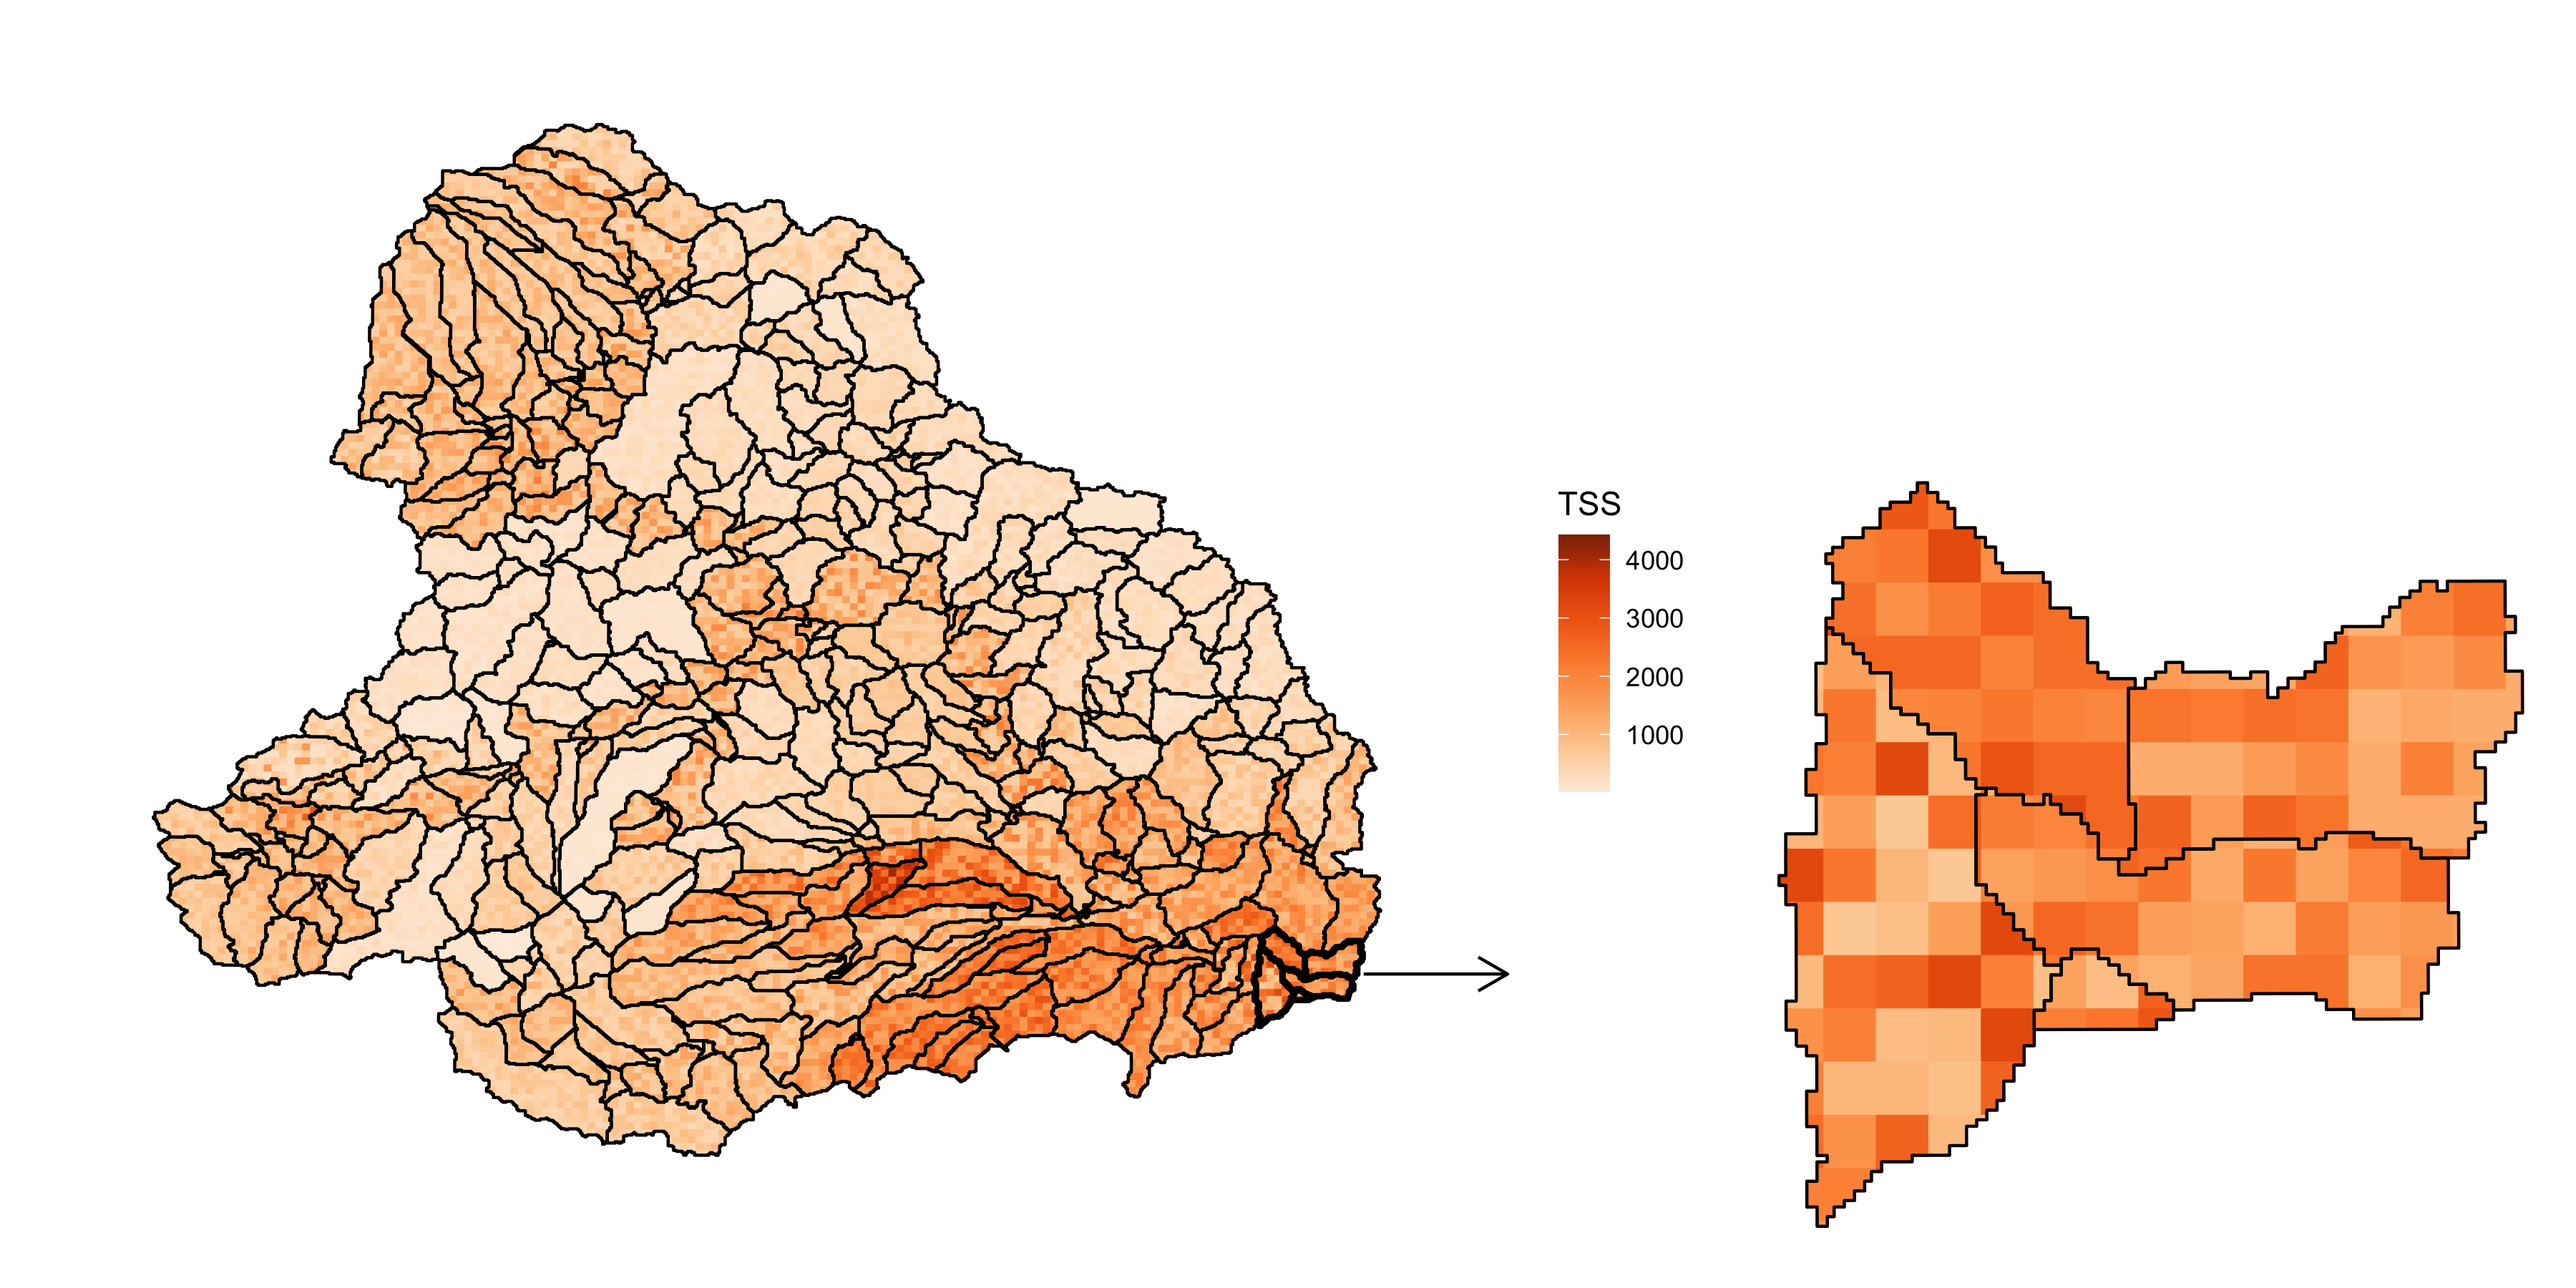
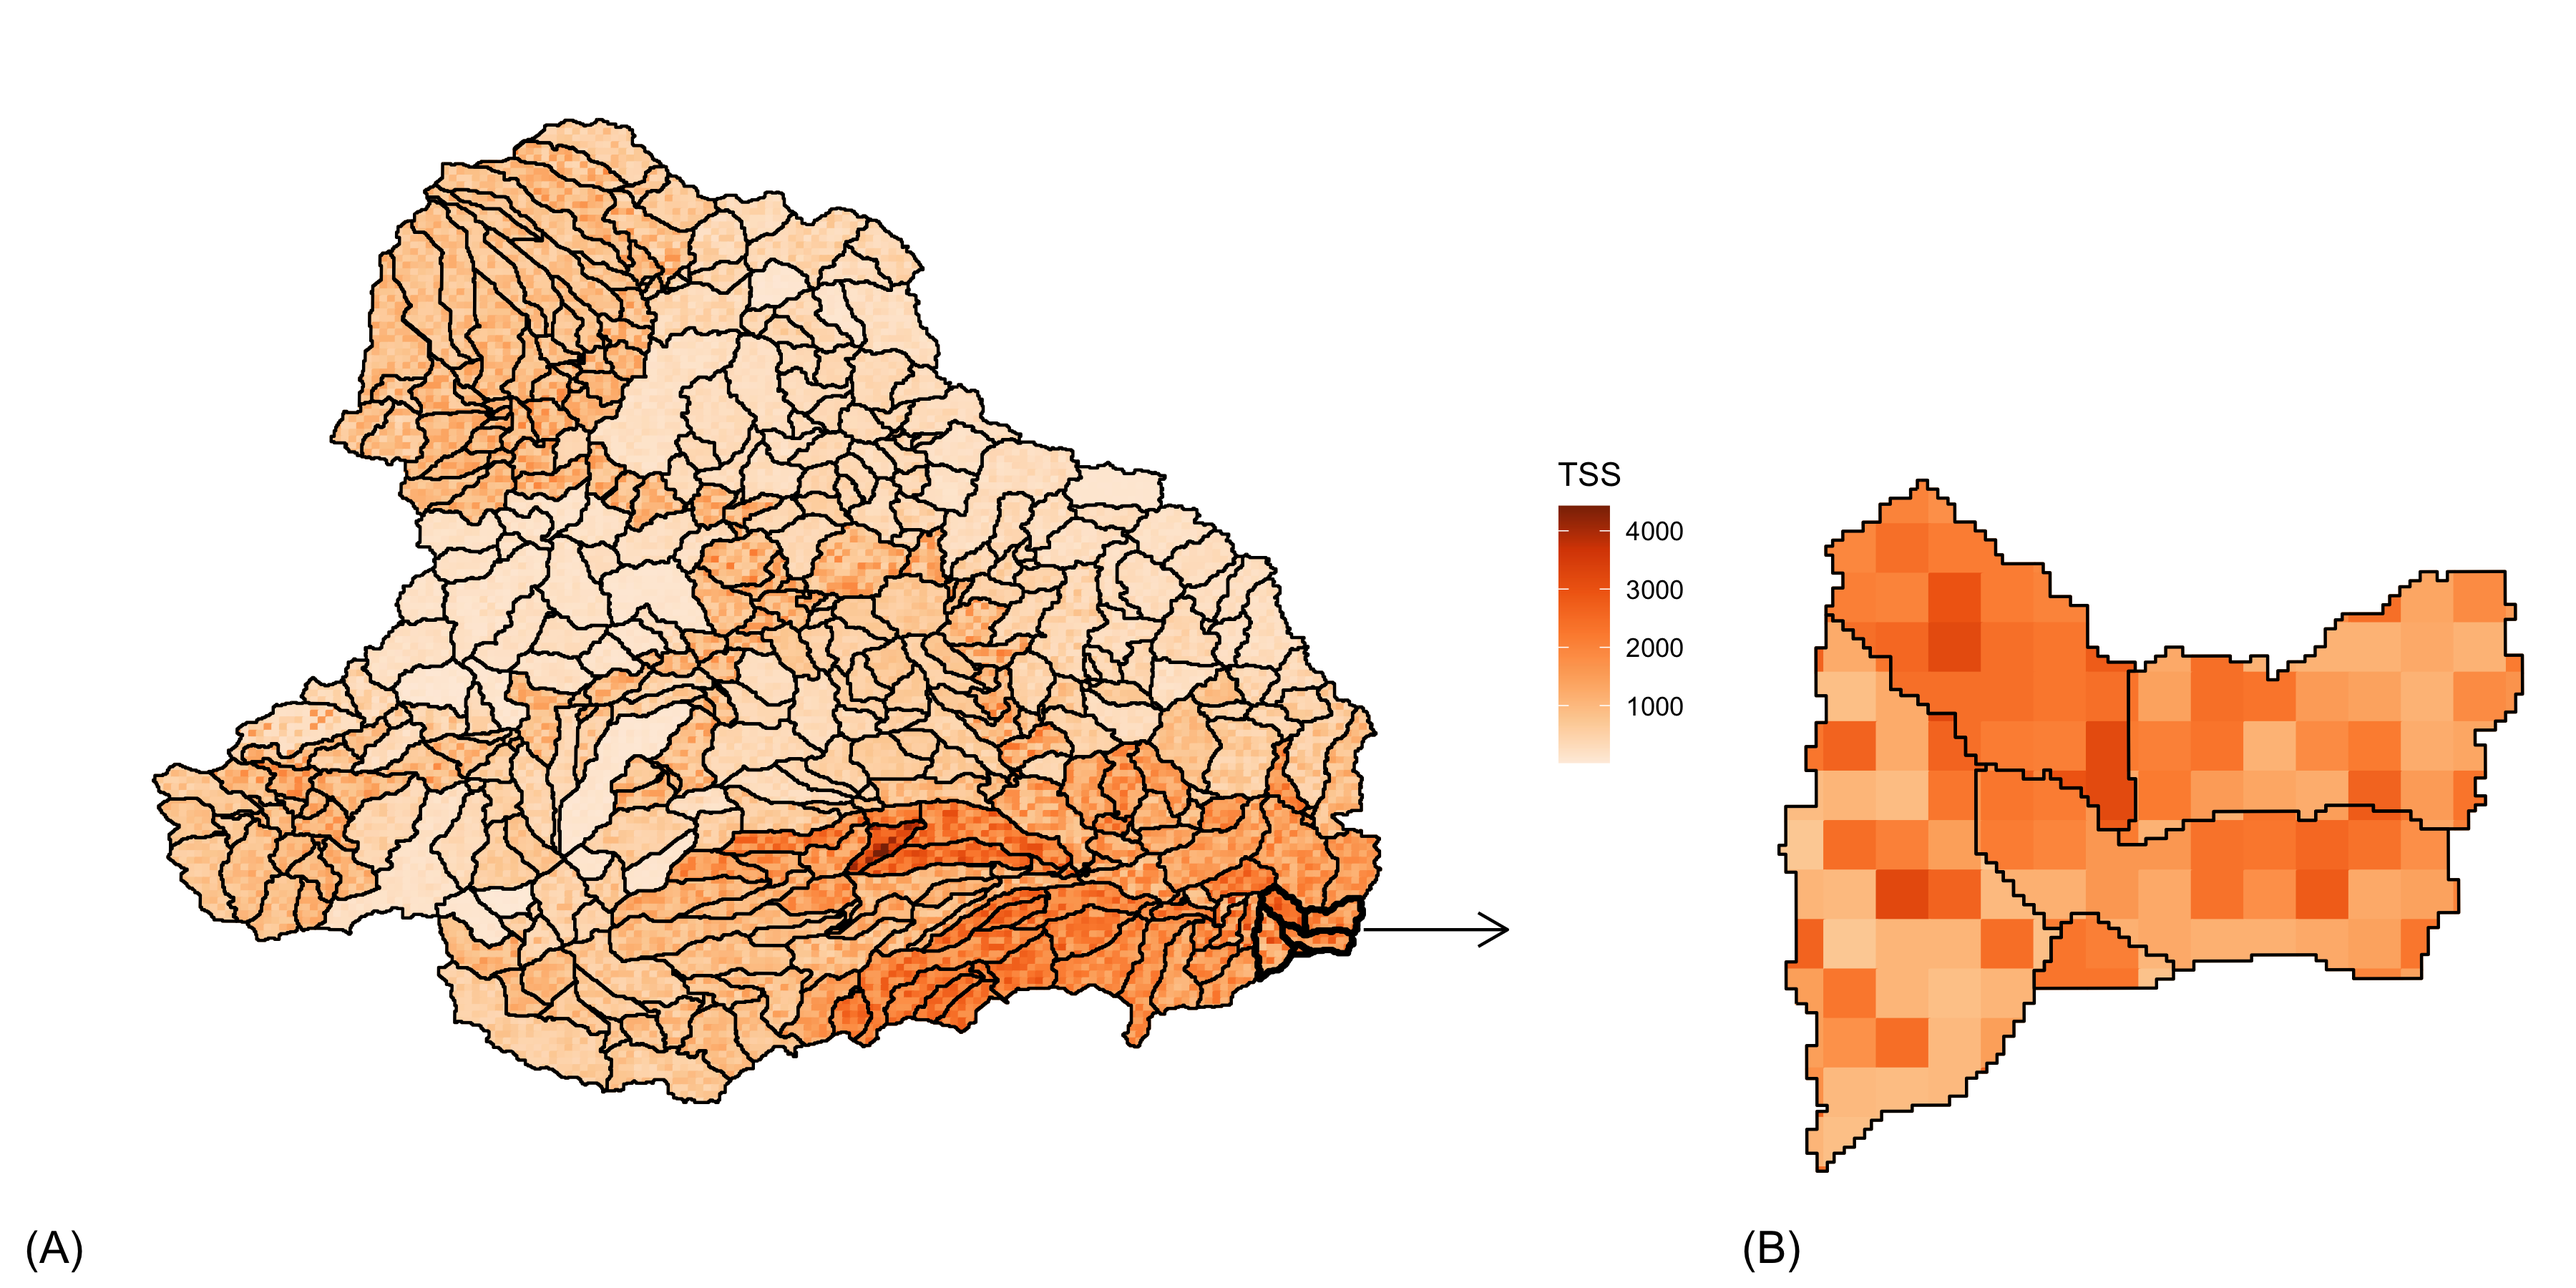
paper edits and pkgdown site

diff --git a/paper/paper.md b/paper/paper.md
@@ -37,7 +37,15 @@ process. Generally, this uncertainty information is shared through visualisation
 
 * The glyph map is intended to address the issue of unequal region sizes on a choropleth map. Glyphs of equal size are placed at the centroid of each region, filled with a colour that represents the estimate, and rotated depending on the degree of uncertainty.
 
-* Exceedance probability maps show the probability of exceeding a nominated threshold of concern. These probabilities can be pre-calculated and passed to the exceedance probability map function or calculated within the function given a prescribed probability distribution function, estimate, and error. For example, let $X$ denote a random variable, and $x$ is a possible value of that random variable, $X$. $F_x(x)$ is the cumulative distribution function and equals the probability that the value of $X$ is less than or equal to a specific value or threshold, $x$, so $$F_x(x) = Pr[X {\leq} x].$$ The probability that the value $X$ is greater than the specific threshold $x$ can then be written as $$Pr[X > x] = 1 - F_x(x) = 1 - Pr[X {\leq} x].$$ In R, assuming an exponential distribution, this can be evaluated through the following expressions: `1 - pexp(q, rate)` or `pexp(q, rate, lower.tail = FALSE)`.
+* Exceedance probability maps show the probability of exceeding a nominated threshold of concern. These probabilities can be pre-calculated and passed to the exceedance probability map function or calculated within the function given a prescribed probability distribution function, estimate, and error. For example, let $X$ denote a random variable, and $x$ is a possible value of that random variable, $X$. $F_x(x)$ is the cumulative distribution function and equals the probability that the value of $X$ is less than or equal to a specific value or threshold, $x$, so 
+\begin{equation}\label{eq:eq1}
+{F_x(x) = Pr[X {\leq} x].}
+\end{equation}
+The probability that the value $X$ is greater than the specific threshold $x$ can then be written as 
+\begin{equation}\label{eq:eq2}
+{Pr[X > x] = 1 - F_x(x) = 1 - Pr[X {\leq} x].}
+\end{equation}
+In R, assuming an exponential distribution, this can be evaluated through the following expressions: `1 - pexp(q, rate)` or `pexp(q, rate, lower.tail = FALSE)`.
 
 Other related R packages include `pixelate` and `biscale`. The `pixelate` package explores the use of pixelation for uncertainty visualisation on isopleth maps [@pixelatePackage], and the `biscale` package can be used to generate bivariate maps for two variables [@biscalePackage].
 
@@ -47,27 +55,27 @@ As an illustration below, we use `Vizumap` to visualise estimated pollutant load
 
 ## Bivariate map
 
-The bivariate map of the upper Burdekin catchment in Queensland, Australia, depicts predicted sediment concentrations and prediction uncertainty. In this example, a custom colour palette is created and then used to build the bivariate map and colour key. The bivariate bins are defined using terciles.
+Figure \ref{bivMap} is a bivariate map of the upper Burdekin catchment in Queensland, Australia. It visualises predicted sediment concentrations and prediction uncertainty. In this example, a custom colour palette is created and then used to build the bivariate map and colour key. The bivariate bins are defined using terciles.
 
-![](bivariateMap.png){width=4in height=4in}
+![Bivariate map and bivariate key.\label{bivMap}](bivariateMap.png){width=4in height=4in}
 
 ## Pixel map
 
-The pixel map depicts the uncertainty of TSS predictions, while giving a general idea of estimated TSS loads. For a closer look at the pixelation, a subset of regions is included to the right of the map. The colours filling the pixels in each region were sampled from the estimate's relative frequency distribution. This pixel map can be animated so that the pixels flicker between sampled values. If the map below were to be animated, the areas that appear most pixelated in the static map would, correspondingly, have the most visible movement among pixels in the animated map. Movement among pixels in areas of low uncertainty would be hard to detect due to the minimal differences between the sampled values of orange. An example of an animated pixel map can be found in @vizMethod.
+Figure \ref{pixMap} visualises the uncertainty of TSS predictions, while giving a general idea of estimated TSS loads. For a closer look at the pixelation, a subset of regions is included to the right of the map (sub-figure B). The colours filling the pixels in each region were sampled from the estimate's relative frequency distribution. This pixel map can be animated so that the pixels flicker between sampled values. If the map below were to be animated, the areas that appear most pixelated in the static map would, correspondingly, have the most visible movement among pixels in the animated map. Movement among pixels in areas of low uncertainty would be hard to detect due to the minimal differences between the sampled values of orange. An example of an animated pixel map can be found in @vizMethod.
 
-![](pixelMap.png){width=4in height=4in}
+![Pixel map. Sub-figure B provides a closer look at the pixelation in five regions from figure A. \label{pixMap}](pixelMap.png){width=4in height=4in}
 
 ## Glyph map
 
-The glyph map of the upper Burdekin catchment depicts estimated TSS loads and the uncertainty of these predictions. The colour filling each glyph (located at the region centroid) represents the estimate, and the rotation of the glyph represents the uncertainty.
+Figure \ref{glyphMap} depicts estimated TSS loads and the uncertainty of these predictions. The colour filling each glyph (located at the region centroid) represents the estimate, and the rotation of the glyph represents the uncertainty.
 
-![](glyphMap.png){width=4in height=4in}
+![Glyph map and glyph key.\label{glyphMap}](glyphMap.png){width=4in height=4in}
 
 ## Exceedance probability map
 
-The exceedance probability map plots the calculated probability of exceeding a sediment concentration greater than 837 mg/L (a threshold of concern) in order to draw attention to the high-risk regions on the map. These probabilities were calculated from the posterior distributions of a BHM as outlined in @gbrData.
+In figure \ref{exceedMap}, the calculated probability of exceeding a sediment concentration greater than 837 mg/L (a threshold of concern) is plotted in order to draw attention to the high-risk regions on the map. These probabilities were calculated from the posterior distributions of a BHM as outlined in @gbrData.
 
-![](exceedMap.png){width=4in height=4in}
+![Exceedance probability map.\label{exceedMap}](exceedMap.png){width=4in height=4in}
 
 # Acknowledgements
 

diff --git a/README.md b/README.md
@@ -22,7 +22,7 @@ Lydia Lucchesi, Australian National University & CSIRO Data61, Email:
 
 Petra Kuhnert, CSIRO Data61, Email: <Petra.Kuhnert@data61.csiro.au>
 
-## About the Package
+## About the package
 
 Approaches for visualising uncertainty in spatial data are presented in
 this package. These include the three approaches developed in [Lucchesi
@@ -86,6 +86,37 @@ to abide by its terms.
 ## License
 
 `Vizumap` version 1.0.0 is licensed under [GPLv3](LICENSE.md).
+
+## History of Vizumap
+
+Vizumap began as a visualisation project at the University of Missouri
+in 2016. Chris Wikle, professor of statistics, posed an interesting
+research question to Lydia Lucchesi, a student curious about data
+visualisation and R.
+
+How do you include uncertainty on a map displaying areal data estimates?
+
+Over the course of a year, they put together three methods for
+visualising uncertainty in spatial statistics: the bivariate choropleth
+map, the pixel map, and the glyph map. By mid-2017, there were maps, and
+there was a lot of R code, but there was not a tool that others could
+use to easily make these types of maps, too. That’s when statistician
+Petra Kuhnert recommended developing an R package. Over the course of a
+month, Petra and Lydia developed Vizumap (originally named VizU) at
+CSIRO Data61 in Canberra, Australia. Since then, the package has been
+expanded to include exceedance probability maps, an uncertainty
+visualisation method developed by Petra while working on a Great Barrier
+Reef (GBR) project.
+
+Vizumap has been used to visualise the uncertainty of American Community
+Survey estimates, the prediction errors of sediment load estimates in a
+GBR catchment, and most recently the [uncertainty of estimated locust
+densities in
+Australia](https://www.nature.com/articles/s41598-020-73897-1/figures/4).
+We would like to assemble a Vizumap gallery that showcases different
+applications of the package’s mapping methods. If you use Vizumap to
+visualise uncertainty, please feel free to send the map our way. We
+would like to see it\!
 
 ## References
 

diff --git a/paper/revisions.md b/paper/revisions.md
@@ -2,6 +2,8 @@
 
 (DN) - Edit based on revision suggested by Daniel Nüst (https://github.com/openjournals/joss-reviews/issues/2409#issuecomment-664007471)
 
+(SD) - Edit based on revision suggested by Shaoqing Dai (https://github.com/openjournals/joss-reviews/issues/2409#issuecomment-736095413)
+
 ### README 
 * Edited method descriptions
 * (DN) Hyperlinked to open-access papers
@@ -13,6 +15,10 @@
   * Added contribution guidelines file
 * (DN) Added section about running tests
 * (DN) Added action badge
+* (DN & editor @bstabler) Added section about Vizumap collaboration history
+
+### Website
+* (SD) Generated a website for Vizumap using pkgdown
 
 ### License
 * (DN) Removed incorrect file from repo
@@ -23,7 +29,7 @@
   * In the JOSS submission form, it was submitted as v1.2.0 - is this going to be an issue?
 * (DN) Deleted extra maintainer
 * (DN) Added a longer description
-* (DN & editor @bstabler) Updated author fields and included contribution descriptions
+* (DN & editor @bstabler) Updated author fields
 * (DN) Added ORCIDs for all authors
 
 ### Vignette
@@ -54,6 +60,9 @@
 * (DN) Commented on related R packages
 * Added testthat and usethis to package acknowledgements
 * (DN) Fixed text under pixel figure
+* (SD) Added figure captions
+* (SD) Numbered equations
+* (SD) Added figure labels to pixel map
 
 
 

diff --git a/NEWS.md b/NEWS.md
@@ -1,0 +1,8 @@
+## version 1.0.0
+
+---
+
+### NEWS.md setup
+
+- added NEWS.md creation with newsmd
+
